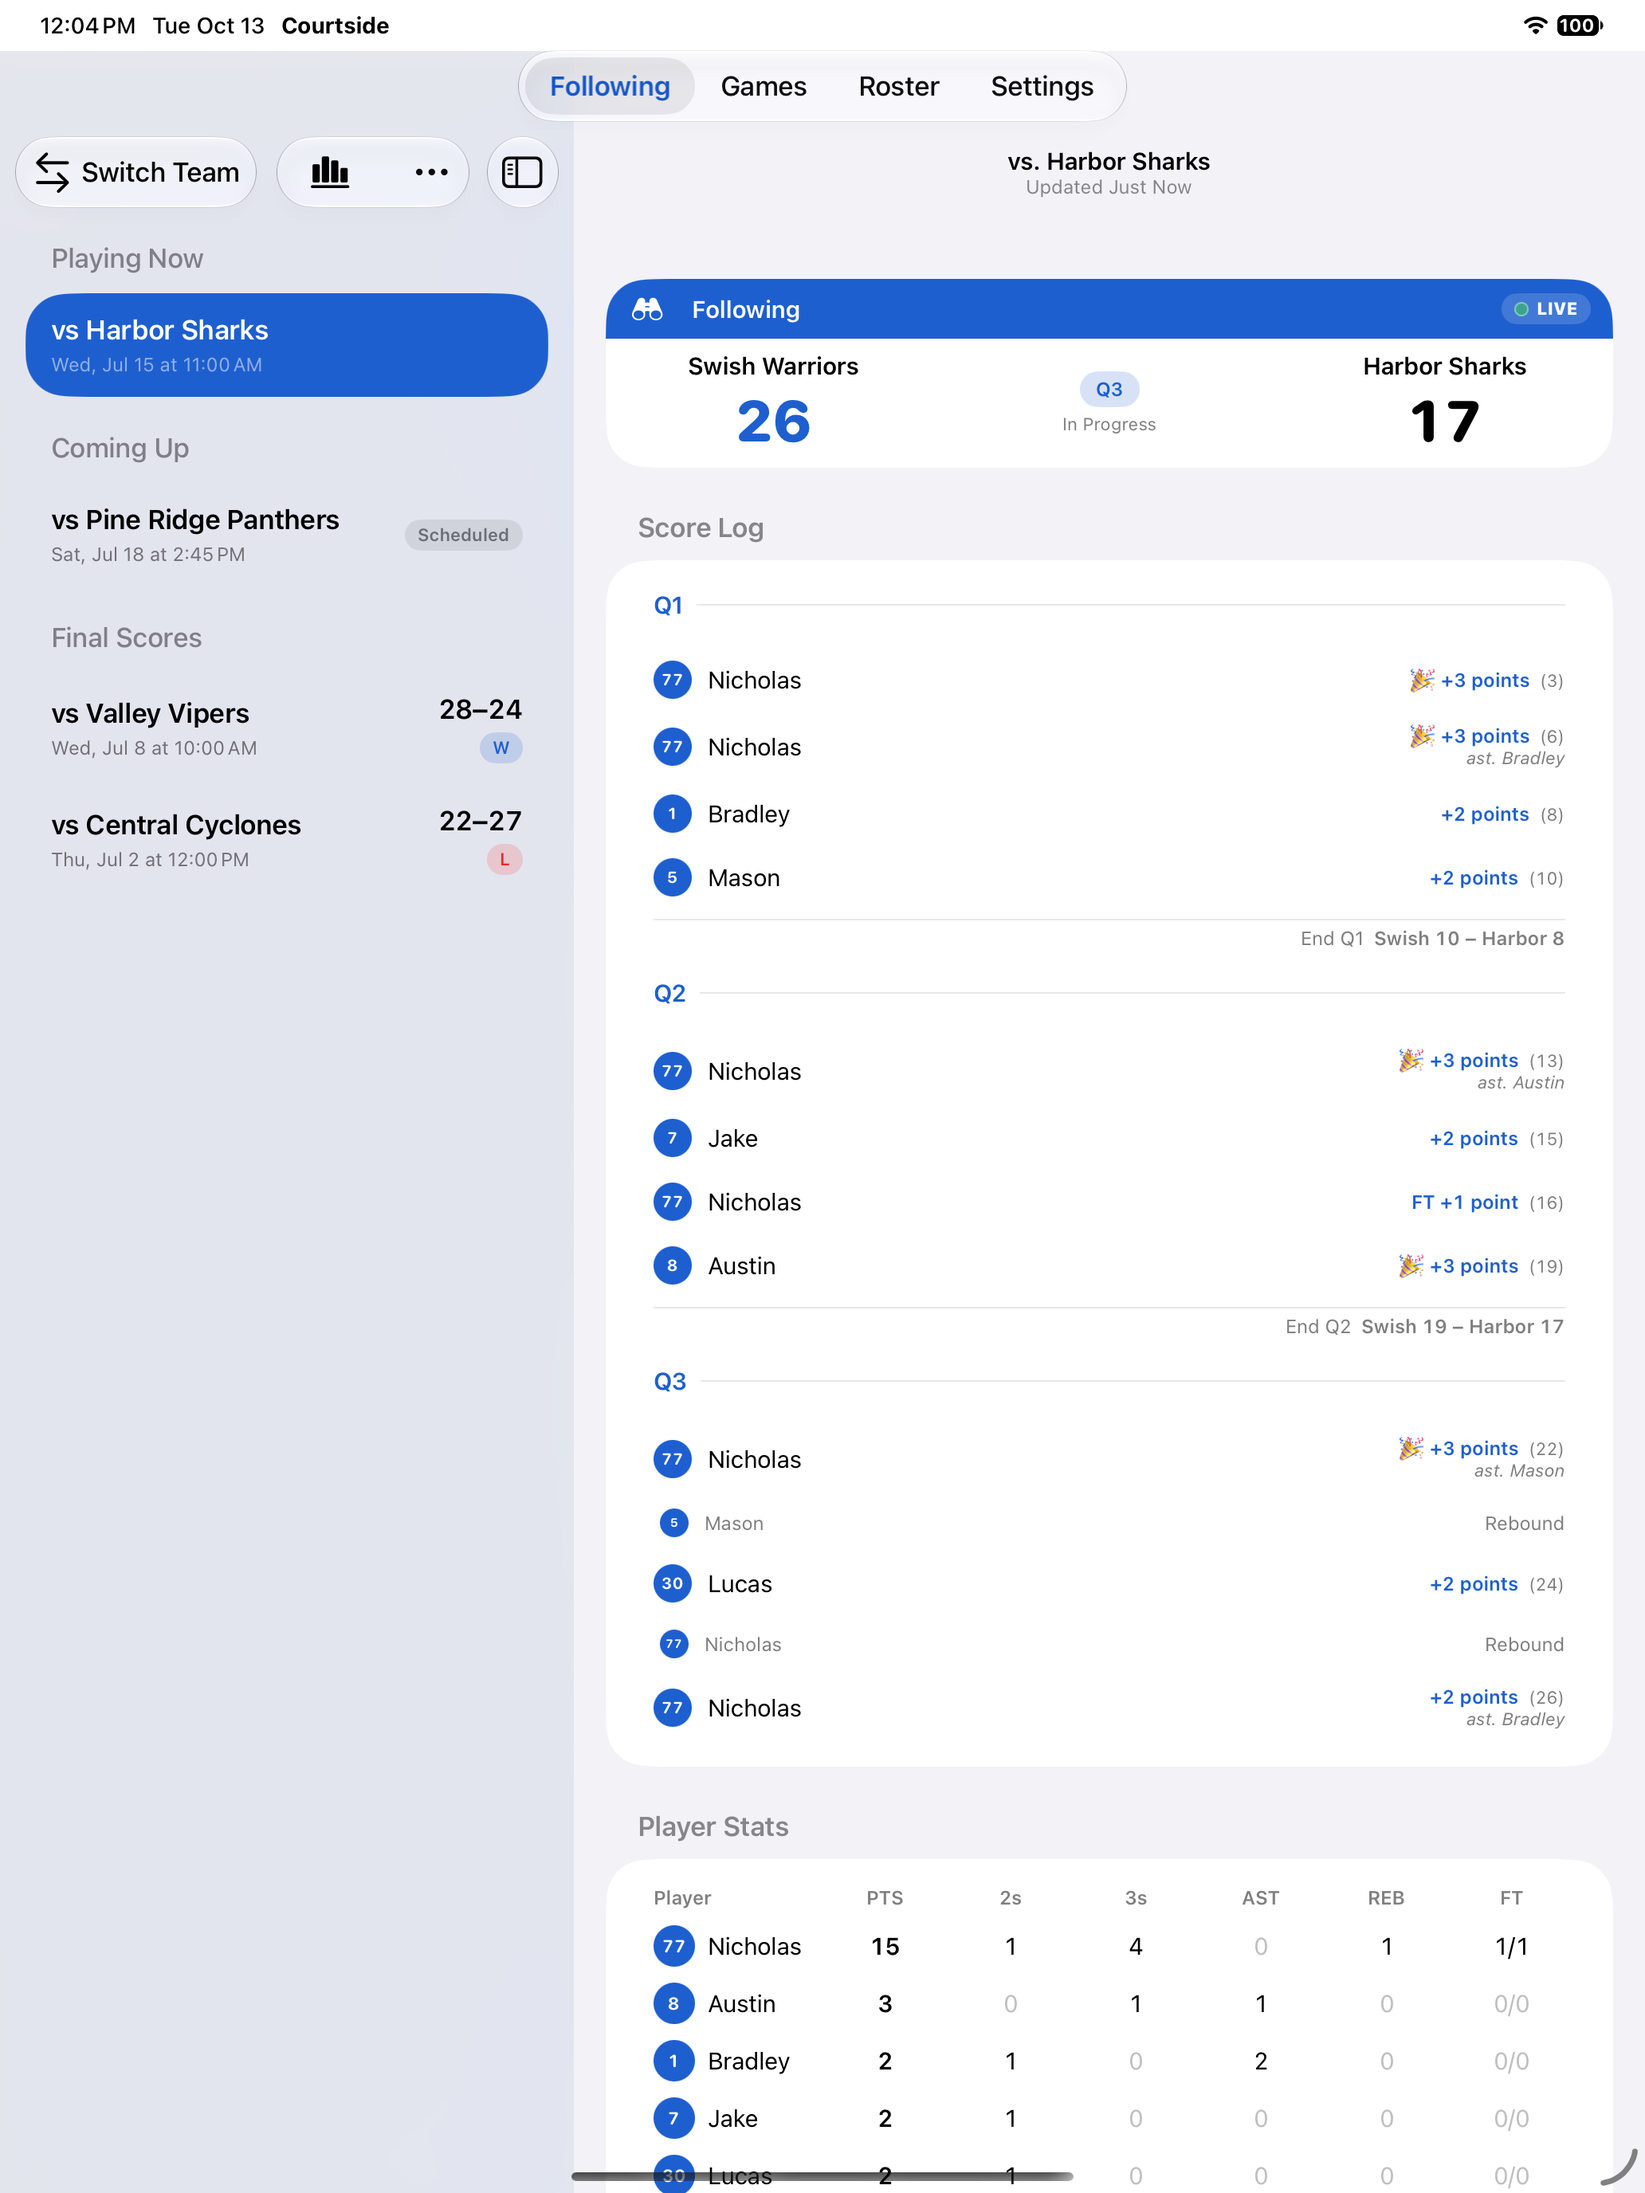
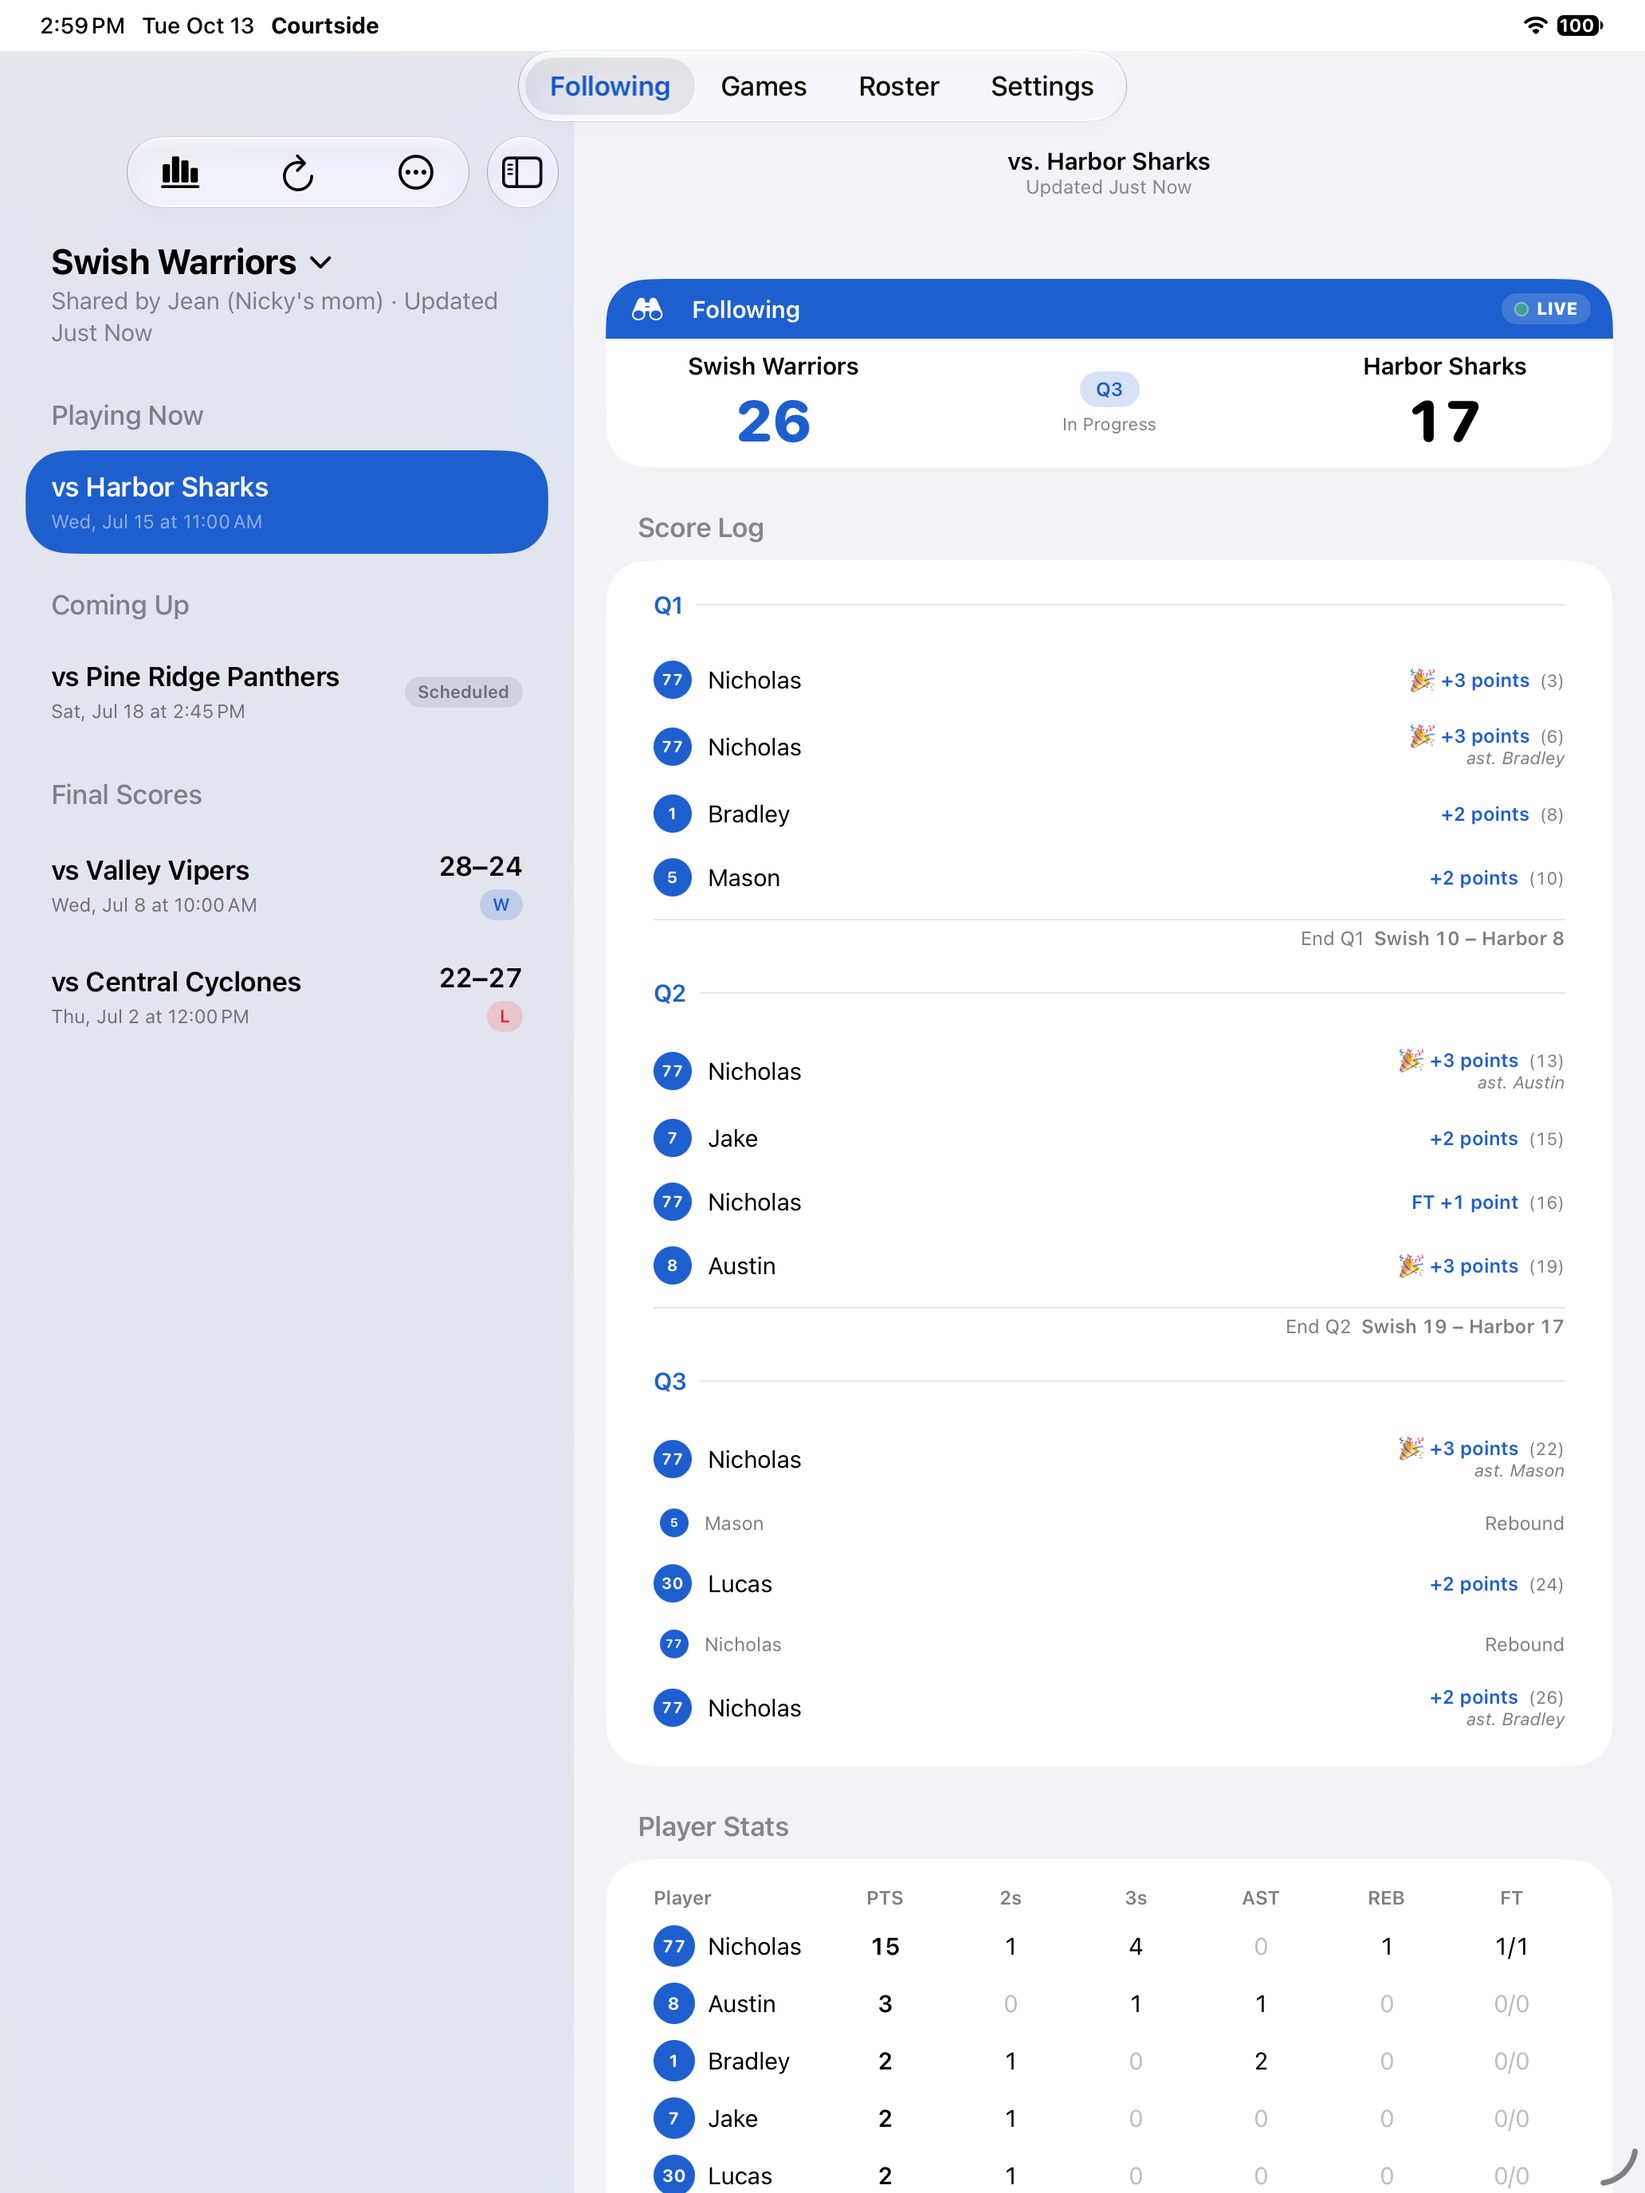
iPad Following: the team's name heads the list (#232) (#240)
The sidebar's bar had no room for a title beside Switch Team, the season
and the menu, so iOS dropped the team name. On iPad the name and who
shared it now head the list, and the name is the team switch.

Claude-Session: https://claude.ai/code/session_01XKw3Fyr61m8RtwfRppQofX

diff --git a/CourtsideHoopStats/Views/FollowingView.swift b/CourtsideHoopStats/Views/FollowingView.swift
@@ -67,12 +67,14 @@ struct FollowingView: View {
         // Same as the Games list: one or two rows per section, so the
         // default gaps separate almost nothing (#193).
         .listSectionSpacing(.compact)
-        .navigationTitle(selected?.team.name ?? "Following")
+        // On iPad the list's own header carries the name (see `gameList`).
+        .navigationTitle(sizeClass == .regular && selected != nil
+                         ? "" : selected?.team.name ?? "Following")
         // Freshness (and who shared it, #120) belongs in chrome, not
         // content: it's always visible, system-styled, and costs no room
         // above the scores. Mail and Podcasts show last-updated the same
         // way.
-        .navigationSubtitle(selected?.subtitle ?? "")
+        .navigationSubtitle(sizeClass == .regular ? "" : selected?.subtitle ?? "")
         // The team being watched, not the active one — a follower's jersey
         // bubbles belong to someone else's team.
         .environment(\.teamKitColor, selected?.team.kitColor ?? .blue)
@@ -101,7 +103,7 @@ struct FollowingView: View {
             // hardcoded content, no subtitle, no sibling toolbar item, and
             // unconditionally rendered, so the fix is a menu we control and
             // can verify opens, not a further attempt at the built-in one.
-            if store.viewedTeams.count > 1 {
+            if store.viewedTeams.count > 1, sizeClass != .regular {
                 ToolbarItem(placement: .topBarLeading) {
                     Menu {
                         // A `Picker`, not a hand-built `ForEach` of
@@ -113,14 +115,7 @@ struct FollowingView: View {
                         // visibly misaligned. A native `Picker` inside a
                         // `Menu` renders its own consistent checkmark
                         // column, the same way Files' "Sort By" menu does.
-                        Picker("Team", selection: Binding(
-                            get: { selected?.id ?? "" },
-                            set: { selectedTeamID = $0 }
-                        )) {
-                            ForEach(store.viewedTeams) { followed in
-                                Text(followed.team.name).tag(followed.id)
-                            }
-                        }
+                        teamPicker
                     } label: {
                         // Named, not just drawn. The control was a bare
                         // `person.2.fill`, which reads as *roster* in this
@@ -236,8 +231,58 @@ struct FollowingView: View {
         }
     }
 
+    private var teamPicker: some View {
+        Picker("Team", selection: Binding(
+            get: { selected?.id ?? "" },
+            set: { selectedTeamID = $0 }
+        )) {
+            ForEach(store.viewedTeams) { followed in
+                Text(followed.team.name).tag(followed.id)
+            }
+        }
+    }
+
+    private func sidebarHeader(for followed: FollowedTeam) -> some View {
+        VStack(alignment: .leading, spacing: 2) {
+            if store.viewedTeams.count > 1 {
+                Menu {
+                    teamPicker
+                } label: {
+                    HStack(spacing: 6) {
+                        Text(followed.team.name)
+                        Image(systemName: "chevron.down")
+                            .font(.subheadline.weight(.semibold))
+                    }
+                }
+                .accessibilityLabel("Switch Team")
+                .accessibilityValue(followed.team.name)
+            } else {
+                Text(followed.team.name)
+            }
+            if !followed.subtitle.isEmpty {
+                Text(followed.subtitle)
+                    .font(.subheadline)
+                    .foregroundStyle(.secondary)
+            }
+        }
+        .font(.title2.bold())
+        .foregroundStyle(.primary)
+        .textCase(nil)
+        .lineLimit(2)
+    }
+
     private func gameList(for followed: FollowedTeam) -> some View {
         List {
+            // iPad (#232): Switch Team, the season and the menu fill the
+            // sidebar's bar, and the title is the first thing dropped — the
+            // team's name went missing. So the name heads the list instead,
+            // and is the team switch.
+            if sizeClass == .regular {
+                Section {
+                } header: {
+                    sidebarHeader(for: followed)
+                }
+            }
             // Same section titles as the Games tab.
             ForEach(gameGroups(for: followed), id: \.title) { group in
                 Section(group.title) {

diff --git a/CourtsideHoopStatsUITests/IPadScreenshotUITests.swift b/CourtsideHoopStatsUITests/IPadScreenshotUITests.swift
@@ -132,6 +132,17 @@ final class IPadScreenshotUITests: XCTestCase {
         let liveGame = app.staticTexts["vs Harbor Sharks"]
         XCTAssertTrue(liveGame.waitForExistence(timeout: 10))
         shot("15-following")
+
+        // The team's name heads the list and is the switch: the sidebar's
+        // bar has no room for a title beside its buttons.
+        let switchTeam = app.buttons["Switch Team"]
+        XCTAssertTrue(switchTeam.waitForExistence(timeout: 5))
+        XCTAssertEqual(switchTeam.value as? String, "Swish Warriors")
+        switchTeam.tap()
+        XCTAssertTrue(app.buttons["Swish Warriors"].waitForExistence(timeout: 5),
+                      "the team menu didn't open")
+        app.buttons["Swish Warriors"].tap()
+        XCTAssertTrue(liveGame.waitForExistence(timeout: 5))
         openRow(app, "vs Harbor Sharks")
         XCTAssertTrue(app.staticTexts["Score Log"].waitForExistence(timeout: 10))
         shot("16-following-game")

diff --git a/docs/REQUIREMENTS.md b/docs/REQUIREMENTS.md
@@ -439,6 +439,9 @@ owner's whole season on their iPad.
   Live Scoring **full screen** instead of in the right-hand pane, and is never
   opened on its own (a game started on another device doesn't throw this one
   into scoring). Finishing a game there shows its summary beside the list.
+  Following's list is headed by the **team's name and who shared it**, and on
+  more than one followed team the name is the team switch: the sidebar's bar
+  has no room for a title beside its buttons, so iOS dropped it.
 - **Game summaries in two columns** when the pane is 880pt or wider: the
   result, by-period table, notes and details on the left; player stats and the
   Score Log on the right. A follower's game puts the box score left and the
